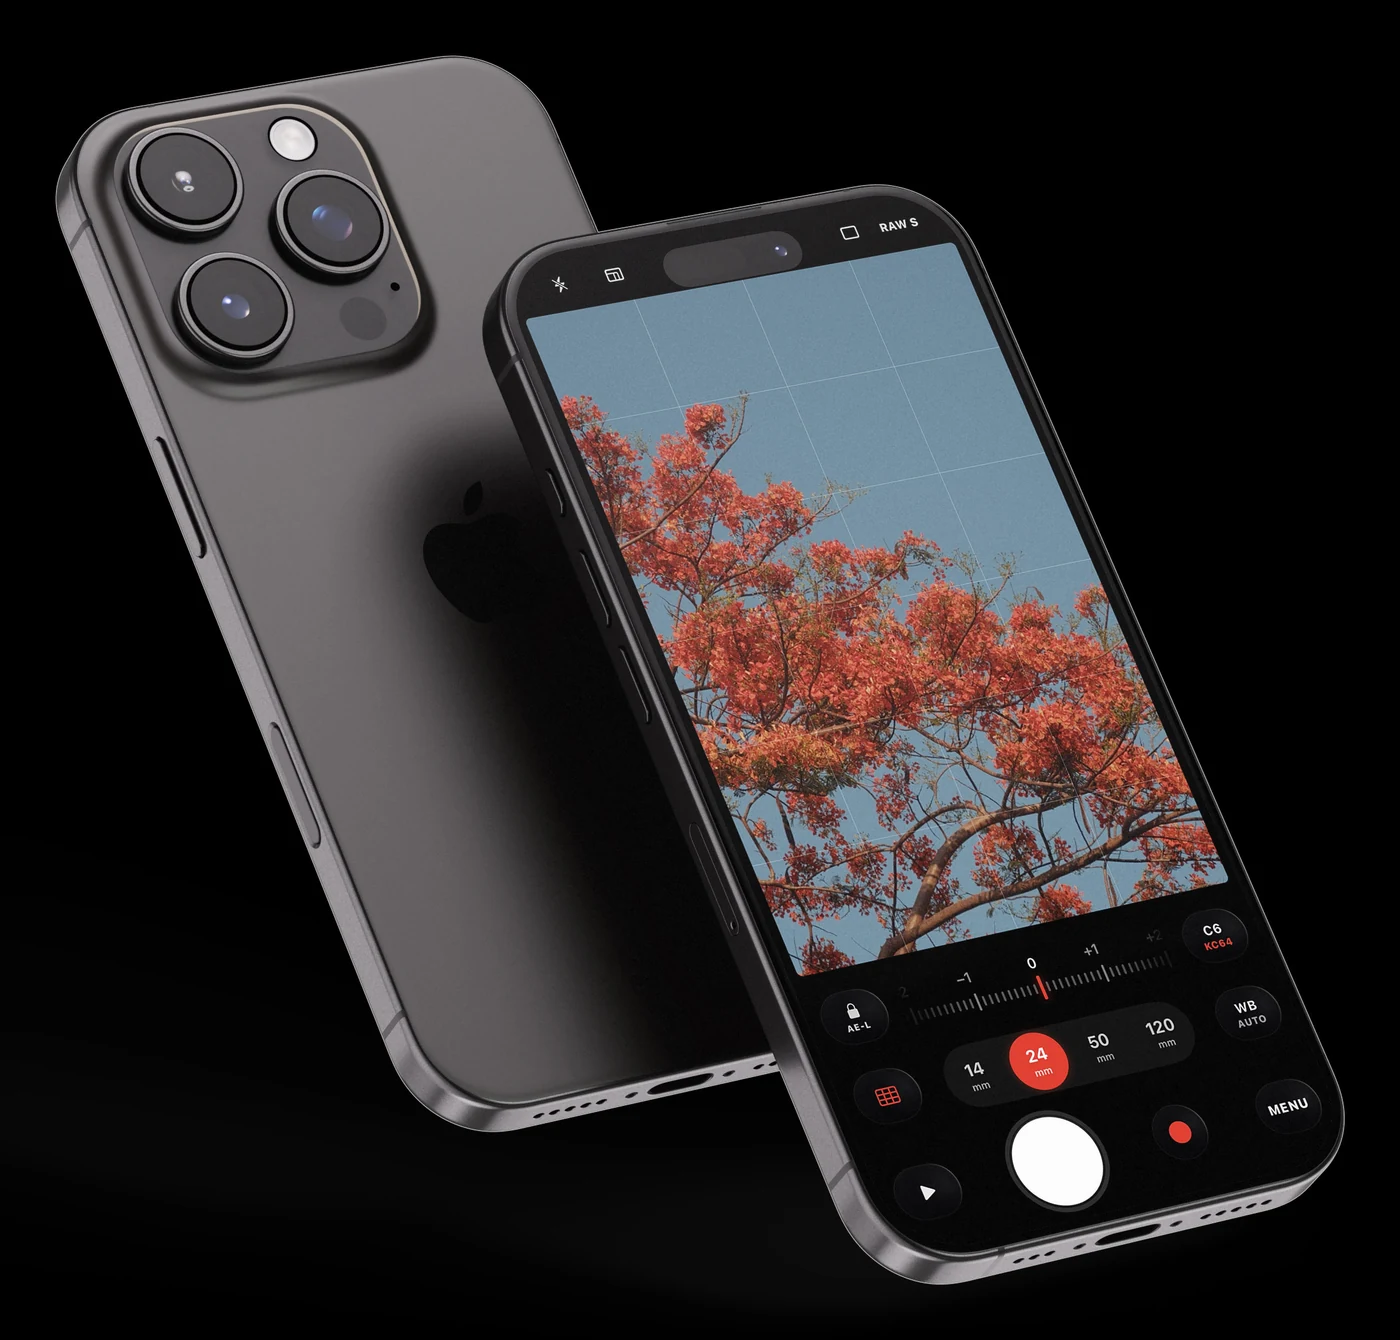
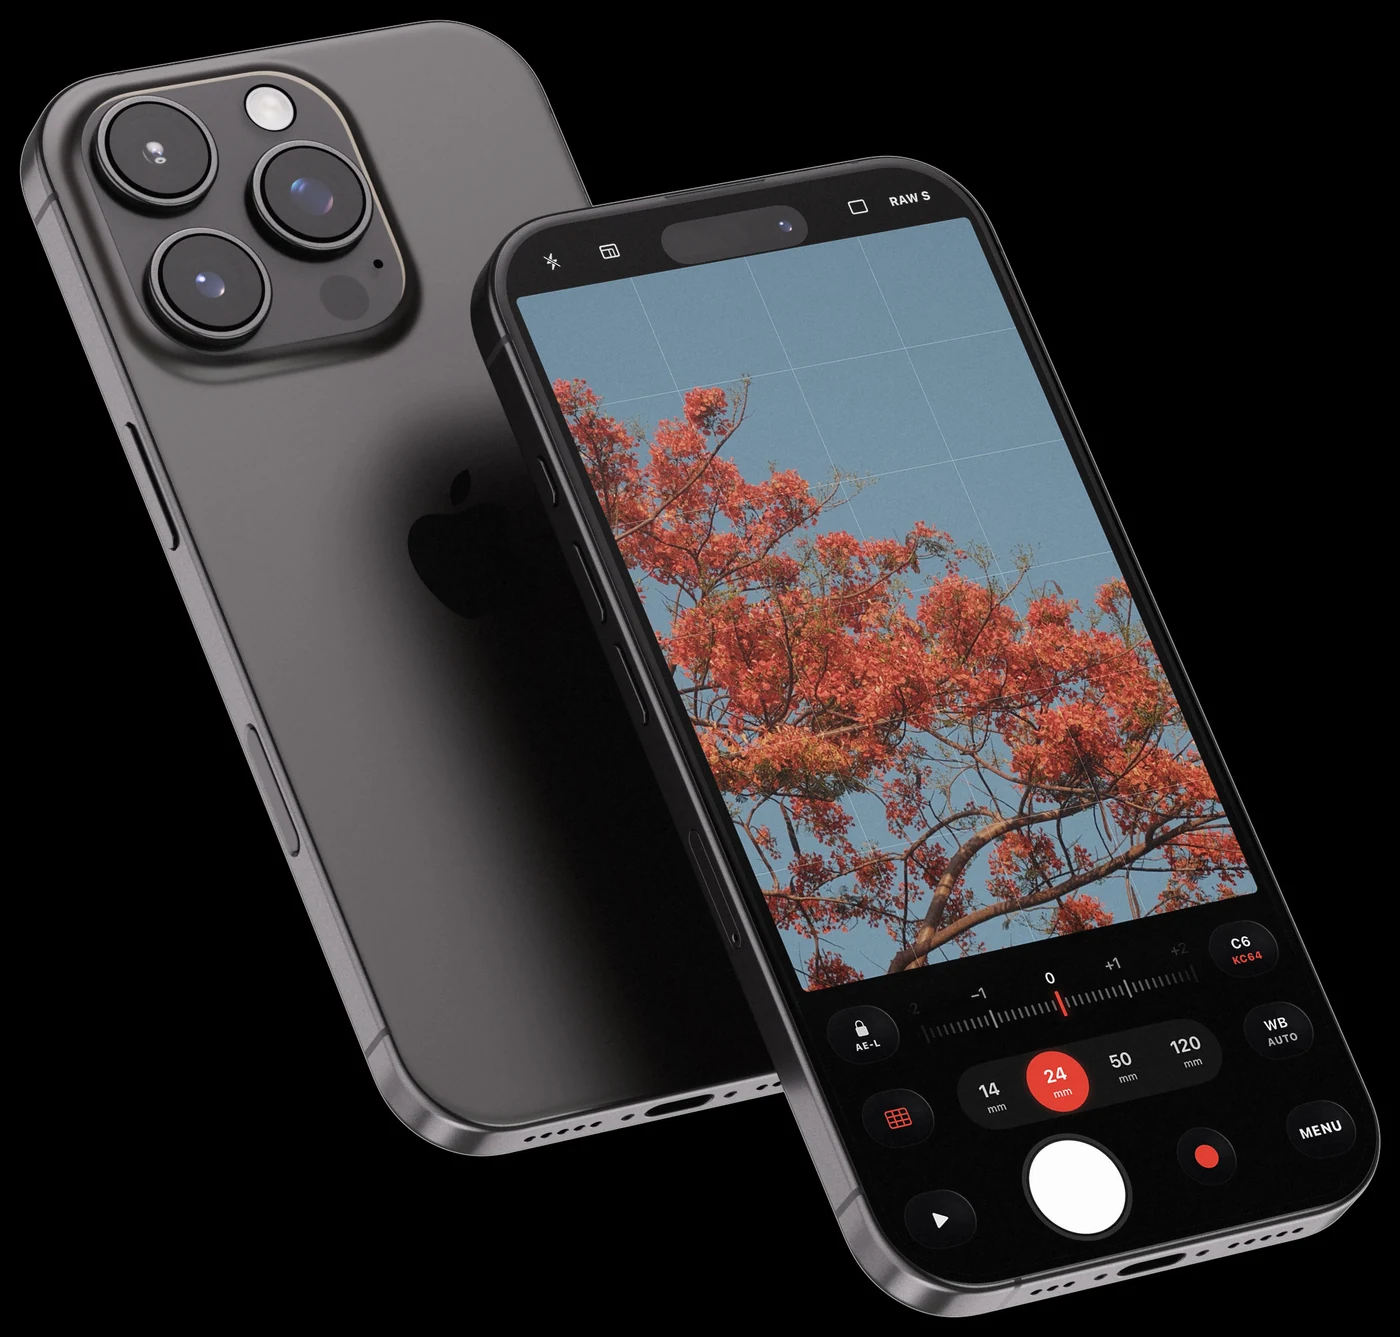
Hero: Mockup ohne Lichtschein, enger beschnitten und groesser, Text darf weiter hineinragen (Mario 261114)

diff --git a/index.html b/index.html
@@ -48,8 +48,10 @@
   @media (prefers-reduced-motion:reduce) { #tipp { border-right:0; animation:none; } }
   .top .bild { min-width:0; }
   .top .bild img { display:block; width:100%; height:auto; }
-  .top .innen { grid-template-columns:minmax(0, 6fr) minmax(0, 6fr); }
-  @media (max-width:760px) { .top .innen { grid-template-columns:1fr; gap:0; } .top .bild { margin:8px -20px 0; } .top .bild img { width:104%; max-width:none; margin-left:-2%; } }
+  .top .innen { max-width:1240px; grid-template-columns:minmax(0, 11fr) minmax(0, 12fr); gap:0; }
+  .top .innen > div:first-child { position:relative; z-index:1; margin-right:-2%; }
+  @media (min-width:1340px) { .top .bild img { width:108%; max-width:none; } }
+  @media (max-width:760px) { .top .innen { grid-template-columns:1fr; gap:0; } .top .bild { margin:8px -20px 0; } .top .innen > div:first-child { margin-right:0; } .top .bild img { width:100%; max-width:none; margin-left:0; } }
 
   /* 2 WAS LUCIA ANDERS MACHT */
   .anders { background:linear-gradient(180deg, #000 0%, var(--grund) 30%); padding-top:clamp(40px, 7vw, 96px); padding-bottom:clamp(48px, 8vw, 110px); }
@@ -153,7 +155,7 @@
       <p class="zeile" aria-label="For when you forgot your camera.">For when you <span id="tipp">forgot your camera.</span></p>
       <a class="knopf" href="#beta">Get the beta</a>
     </div>
-    <div class="bild"><img src="img/hero.webp" alt="Lucia viewfinder on iPhone" width="1400" height="1340" fetchpriority="high"></div>
+    <div class="bild"><img src="img/hero.webp" alt="Lucia viewfinder on iPhone" width="1400" height="1337" fetchpriority="high"></div>
   </div>
 </section>
 
